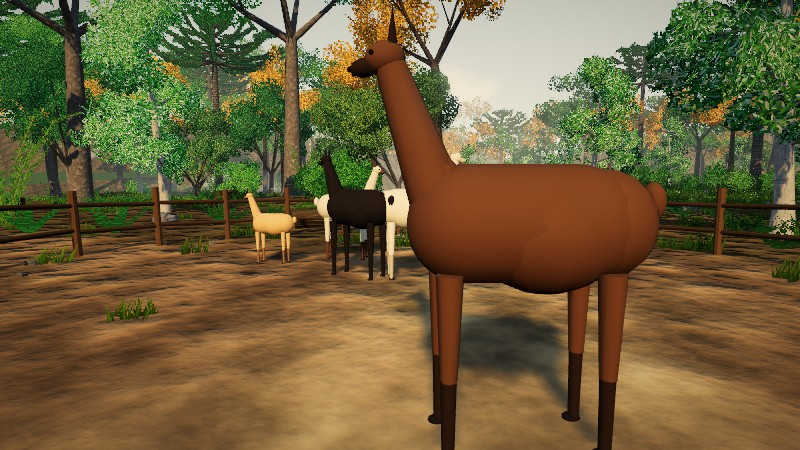
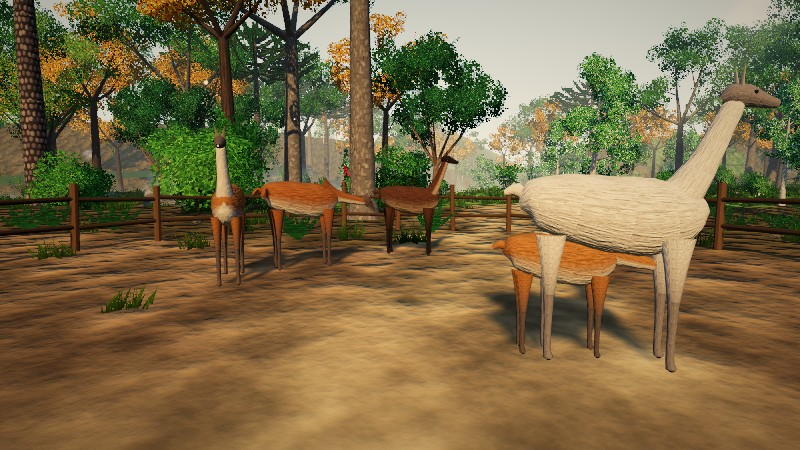
Rehacer el weke como guanaco doméstico y dar pelaje a los animales
El weke deja de parecer una llama: porte y colores de guanaco, que es lo que apunta
el estudio genético de los restos de isla Mocha. Weke y pudú tienen ahora un cuerpo
continuo (tronco, cuello, cabeza y patas modelados por su contorno) con textura de pelo.
La ficha del cuaderno explica la duda sobre qué animal era.

Claude-Session: https://claude.ai/code/session_014kb8iuWt13Nr2guzxgq7A9

diff --git a/src/life.js b/src/life.js
@@ -78,46 +78,70 @@ export function animatePerson(p, phase, amp, air = false) {
   p.body.rotation.x = amp * 0.09; p.body.rotation.y = s * amp * 0.07; p.body.position.y = Math.abs(c) * amp * 0.012;
 }
 
-// Weke: pariente de la llama. Medidas reales: 1,1 m a la cruz, cuello largo y erguido, cabeza chica
-// de orejas largas, cuerpo lanudo sobre patas delgadas.
-// Pudú: ciervo enano de 40 cm a la cruz, cuerpo redondo con la grupa más alta que los hombros,
-// patas cortas, cabeza pequeña y, el macho, dos cuernos como espinas.
-function buildQuad({ s = 1, kind = 'weke', body = 0xd9d0b6, legs = 0x8a7a66 }) {
-  const g = new THREE.Group(), weke = kind === 'weke', dark = 0x1a1512, hoof = 0x2a2420;
-  const H = weke ? 1.02 : 0.34, L = weke ? 1.05 : 0.5, legLen = weke ? 0.72 : 0.22;
-  const cap = (r, len, c, x, y, z, rx = Math.PI / 2) => { const m = mesh(new THREE.CapsuleGeometry(r, len, 5, 12), c, g, x, y, z); m.rotation.x = rx; return m; };
-  if (weke) {
-    cap(0.27, 0.5, body, 0, H, 0); ball(0.29, body, g, 0, H - 0.04, -0.1, 1.02, 0.95, 1.2);      // tronco lanudo
-    ball(0.22, body, g, 0, H + 0.02, 0.32, 0.95, 1.05, 0.9); ball(0.25, body, g, 0, H, -0.36, 1, 1, 0.9); // pecho y grupa
-    ball(0.06, body, g, 0, H + 0.1, -0.6, 1, 1.5, 0.9);                                           // cola corta
-  } else {
-    const b = cap(0.125, 0.22, body, 0, H, 0); b.rotation.x = Math.PI / 2 + 0.12;                 // lomo que sube hacia la grupa
-    ball(0.135, body, g, 0, H + 0.025, -0.13, 1, 1.05, 1); ball(0.105, body, g, 0, H - 0.015, 0.15, 1, 1, 1);
-    ball(0.028, legs, g, 0, H + 0.07, -0.27);
+// ---------- animales con piel continua ----------
+// Cada parte (tronco, cuello, cabeza, patas) es un tubo de sección ovalada que sigue una línea
+// de puntos [alto, largo, radio horizontal, radio vertical], como el contorno real del animal.
+const furTex = TEX.fur.clone(); furTex.repeat.set(3, 3); furTex.needsUpdate = true;
+const furMat = new THREE.MeshStandardMaterial({ vertexColors: true, map: furTex, bumpMap: furTex, bumpScale: 1.6, roughness: 1 });
+function skin(spine, colorAt, { rings = 18, radial = 14, rough = 0 } = {}) {
+  const curve = new THREE.CatmullRomCurve3(spine.map(([y, z]) => new THREE.Vector3(0, y, z))), pos = [], col = [], uv = [], idx = [], c = new THREE.Color(), n = spine.length - 1;
+  for (let i = 0; i <= rings; i++) {
+    const t = i / rings, p = curve.getPoint(t), T = curve.getTangent(t), f = t * n, k = Math.min(n - 1, Math.floor(f)), u = f - k;
+    const rx = spine[k][2] + (spine[k + 1][2] - spine[k][2]) * u, ry = spine[k][3] + (spine[k + 1][3] - spine[k][3]) * u, ny = T.z, nz = -T.y; // la normal del anillo, perpendicular a la línea
+    for (let j = 0; j <= radial; j++) {
+      const a = (j / radial) * Math.PI * 2, ca = Math.cos(a), sa = Math.sin(a), w = 1 + rough * Math.sin(a * 5 + t * 23) * Math.sin(t * 31 + a * 3); // mechones
+      pos.push(ca * rx * w, p.y + ny * sa * ry * w, p.z + nz * sa * ry * w); uv.push(j / radial, t * 2);
+      c.set(colorAt(t, sa, ca)); col.push(c.r, c.g, c.b);
+    }
   }
-  const neck = new THREE.Group(); neck.position.set(0, H + (weke ? 0.1 : 0.03), L * (weke ? 0.36 : 0.36)); g.add(neck);
-  const nl = weke ? 0.62 : 0.12; mesh(new THREE.CylinderGeometry(weke ? 0.07 : 0.045, weke ? 0.13 : 0.07, nl, 10), body, neck, 0, nl / 2, 0);
-  if (weke) ball(0.11, body, neck, 0, 0.08, -0.02, 1, 1.4, 1.05);                                  // lana en la base del cuello
-  const hd = new THREE.Group(); hd.position.y = nl; neck.add(hd);
-  if (weke) {
-    ball(0.078, body, hd, 0, 0.04, 0.02, 0.9, 0.95, 1.15); ball(0.05, legs, hd, 0, 0.012, 0.115, 0.85, 0.8, 1.25); // cráneo y hocico largo
-    ball(0.016, dark, hd, 0, 0.012, 0.178, 1.3, 0.7, 0.6); mesh(new THREE.BoxGeometry(0.035, 0.004, 0.02), dark, hd, 0, -0.012, 0.16); // nariz y boca partida
-    for (const sx of [-1, 1]) { const e = mesh(new THREE.ConeGeometry(0.022, 0.15, 6), legs, hd, sx * 0.045, 0.16, -0.03); e.rotation.z = -sx * 0.18; e.rotation.x = -0.15; ball(0.011, dark, hd, sx * 0.058, 0.055, 0.075); }
-  } else {
-    ball(0.055, body, hd, 0, 0.03, 0.03, 0.95, 0.95, 1.15); ball(0.03, legs, hd, 0, 0.012, 0.085, 0.9, 0.85, 1.2); ball(0.01, dark, hd, 0, 0.012, 0.118);
-    for (const sx of [-1, 1]) { ball(0.022, legs, hd, sx * 0.045, 0.08, -0.005, 0.5, 1.1, 0.9); ball(0.007, dark, hd, sx * 0.04, 0.045, 0.055); if (legs !== body) { const a = mesh(new THREE.ConeGeometry(0.007, 0.05, 4), 0x4a3c30, hd, sx * 0.02, 0.1, 0.0); a.rotation.z = -sx * 0.15; } }
+  for (let i = 0; i < rings; i++) for (let j = 0; j < radial; j++) { const a = i * (radial + 1) + j, b = a + radial + 1; idx.push(a, a + 1, b, a + 1, b + 1, b); }
+  const g = new THREE.BufferGeometry(); g.setAttribute('position', new THREE.Float32BufferAttribute(pos, 3)); g.setAttribute('color', new THREE.Float32BufferAttribute(col, 3)); g.setAttribute('uv', new THREE.Float32BufferAttribute(uv, 2)); g.setIndex(idx); g.computeVertexNormals();
+  return new THREE.Mesh(g, furMat);
+}
+const mixHex = (a, b, t) => new THREE.Color(a).lerp(new THREE.Color(b), Math.min(1, Math.max(0, t))).getHex();
+
+// Weke (chilihueque): por los restos estudiados, lo más probable es que fuera un guanaco domesticado.
+// Porte de guanaco: 1,1 m a la cruz, esbelto, cuello largo, lomo canela y vientre blanco, cara gris.
+// Pudú: ciervo enano de 40 cm, cuerpo redondo con la grupa más alta que los hombros, patas cortas.
+const ANIMAL = {
+  weke: {
+    torso: [[1.04, -0.6, 0.02, 0.02], [1.07, -0.52, 0.14, 0.16], [1.05, -0.32, 0.19, 0.22], [1.0, -0.05, 0.2, 0.25], [0.98, 0.2, 0.19, 0.26], [1.0, 0.38, 0.15, 0.21], [1.02, 0.5, 0.08, 0.1], [1.02, 0.54, 0.02, 0.02]],
+    neckAt: [1.12, 0.36], neck: [[-0.14, -0.06, 0.13, 0.17], [0.02, 0.02, 0.1, 0.12], [0.25, 0.07, 0.07, 0.08], [0.48, 0.09, 0.058, 0.065], [0.6, 0.1, 0.055, 0.06], [0.66, 0.1, 0.03, 0.03]],
+    headAt: [0.63, 0.1], head: [[0, -0.08, 0.02, 0.02], [0.03, -0.03, 0.062, 0.07], [0.035, 0.04, 0.066, 0.072], [0.02, 0.11, 0.05, 0.05], [0.005, 0.18, 0.036, 0.034], [0, 0.215, 0.03, 0.026], [0, 0.232, 0.012, 0.012]],
+    hipY: 0.86, hipX: 0.11, hipZ: [0.34, -0.4], thigh: [[0, 0, 0.07, 0.1], [-0.18, 0, 0.05, 0.065], [-0.4, 0, 0.032, 0.036]], shin: [[0, 0, 0.032, 0.036], [-0.2, 0, 0.024, 0.026], [-0.4, 0, 0.022, 0.024], [-0.44, 0.01, 0.03, 0.034], [-0.46, 0.01, 0.01, 0.01]],
+    tailAt: [1.1, -0.56], tail: [[0, 0, 0.03, 0.03], [0.04, -0.07, 0.045, 0.05], [0.0, -0.15, 0.02, 0.02]], ear: 0.14, earAt: [0.04, 0.1, -0.005], eyeAt: [0.058, 0.05, 0.07, 0.011], rough: 0.035,
+  },
+  pudu: {
+    torso: [[0.4, -0.3, 0.01, 0.01], [0.42, -0.24, 0.09, 0.1], [0.41, -0.1, 0.115, 0.125], [0.38, 0.05, 0.11, 0.125], [0.36, 0.16, 0.085, 0.105], [0.36, 0.23, 0.04, 0.05], [0.36, 0.25, 0.01, 0.01]],
+    neckAt: [0.4, 0.17], neck: [[-0.06, -0.04, 0.07, 0.085], [0.02, 0.02, 0.05, 0.055], [0.09, 0.05, 0.042, 0.046], [0.12, 0.06, 0.02, 0.02]],
+    headAt: [0.1, 0.055], head: [[0, -0.045, 0.012, 0.012], [0.012, -0.015, 0.042, 0.046], [0.014, 0.03, 0.042, 0.044], [0.006, 0.075, 0.028, 0.027], [0, 0.1, 0.02, 0.018], [0, 0.11, 0.006, 0.006]],
+    hipY: 0.265, hipX: 0.055, hipZ: [0.15, -0.2], thigh: [[0, 0, 0.035, 0.05], [-0.07, 0, 0.024, 0.03], [-0.13, 0, 0.014, 0.016]], shin: [[0, 0, 0.014, 0.016], [-0.07, 0, 0.011, 0.012], [-0.12, 0, 0.01, 0.011], [-0.13, 0.004, 0.014, 0.016], [-0.135, 0.004, 0.004, 0.004]],
+    tailAt: [0.42, -0.28], tail: [[0, 0, 0.012, 0.012], [0.005, -0.03, 0.018, 0.018], [0, -0.05, 0.006, 0.006]], ear: 0.05, earAt: [0.03, 0.055, -0.005], eyeAt: [0.036, 0.03, 0.04, 0.007], rough: 0.02,
+  },
+};
+function buildQuad({ s = 1, kind = 'weke', body = 0xb07a4a, belly = 0xf0e8d8, legs = 0x7a6a5e, horns = false }) {
+  const A = ANIMAL[kind], g = new THREE.Group(), dark = 0x18130f, weke = kind === 'weke';
+  const coat = (t, sa) => mixHex(body, belly, (-sa - 0.25) * 2.2);                          // lomo de un color, vientre más claro
+  g.add(skin(A.torso, coat, { rings: 22, rough: A.rough }));
+  const tail = new THREE.Group(); tail.position.set(0, A.tailAt[0], A.tailAt[1]); tail.add(skin(A.tail, () => body, { rings: 6, radial: 8 })); g.add(tail);
+  const neck = new THREE.Group(); neck.position.set(0, A.neckAt[0], A.neckAt[1]); g.add(neck);
+  neck.add(skin(A.neck, (t, sa) => mixHex(body, belly, (-sa - 0.1) * 2.5 * (weke ? 1 : 0.5)), { rings: 12, rough: A.rough * 0.6 })); // garganta clara
+  const hd = new THREE.Group(); hd.position.set(0, A.headAt[0], A.headAt[1]); neck.add(hd);
+  hd.add(skin(A.head, (t, sa) => (t > 0.86 ? dark : mixHex(weke ? legs : body, belly, (t - 0.55) * (weke ? 0.6 : 0.3) + (-sa - 0.5))), { rings: 12, radial: 12 })); // cara y hocico oscuro
+  for (const sx of [-1, 1]) {
+    const e = mesh(new THREE.ConeGeometry(A.ear * 0.2, A.ear, 6), weke ? legs : body, hd, sx * A.earAt[0], A.earAt[1] + A.ear * 0.4, A.earAt[2]); e.scale.z = 0.45; e.rotation.z = -sx * 0.22; e.rotation.x = -0.12;
+    ball(A.eyeAt[3], dark, hd, sx * A.eyeAt[0], A.eyeAt[1], A.eyeAt[2]);
+    if (horns) { const a = mesh(new THREE.ConeGeometry(0.006, 0.05, 4), 0x4a3c30, hd, sx * 0.018, 0.075, -0.005); a.rotation.z = -sx * 0.18; }
   }
-  hd.rotation.x = -0.35; neck.rotation.x = 0.35;
   const Ls = [], Ks = [];
-  for (const [x, z] of [[1, 1], [-1, 1], [1, -1], [-1, -1]]) {
-    const hip = new THREE.Group(); hip.position.set(x * (weke ? 0.15 : 0.07), legLen + (weke ? 0.1 : 0.03), z * L * (weke ? 0.33 : 0.3)); g.add(hip);
-    seg(legLen * 0.5 + (weke ? 0.1 : 0.03), weke ? 0.06 : 0.03, weke ? 0.038 : 0.019, body, hip);                      // muslo, más grueso arriba
-    const knee = new THREE.Group(); knee.position.y = -legLen * 0.5 - (weke ? 0.1 : 0.03); hip.add(knee); seg(legLen * 0.5, weke ? 0.035 : 0.018, weke ? 0.028 : 0.013, legs, knee);
-    ball(weke ? 0.036 : 0.016, hoof, knee, 0, -legLen * 0.5 + 0.01, weke ? 0.012 : 0.005, 1, 0.6, 1.3); // pezuña
+  for (const z of A.hipZ) for (const x of [1, -1]) {
+    const hip = new THREE.Group(); hip.position.set(x * A.hipX, A.hipY, z); g.add(hip); hip.add(skin(A.thigh, (t) => mixHex(body, legs, t * 1.1 - 0.3), { rings: 8, radial: 10 }));
+    const knee = new THREE.Group(); knee.position.y = A.thigh[A.thigh.length - 1][0]; hip.add(knee); knee.add(skin(A.shin, (t) => (t > 0.86 ? dark : legs), { rings: 9, radial: 8 })); // la pezuña es oscura
     Ls.push(hip); Ks.push(knee);
   }
+  hd.rotation.x = -0.3; neck.rotation.x = 0.3;
   g.scale.setScalar(s); shadows(g);
-  return { g, legs: Ls, knees: Ks, neck, headPivot: hd };
+  return { g, legs: [Ls[0], Ls[1], Ls[2], Ls[3]], knees: Ks, neck, headPivot: hd, tail };
 }
 
 // Aves con sus colores reales:
@@ -166,10 +190,11 @@ export function buildLife({ scene, rng, emit, trees }) {
 
   // ---------- animales ----------
   const quad = (opts, x, z, beh) => { const q = buildQuad(opts); q.x = x; q.z = z; q.face = R(0, 6); q.phase = R(0, 6); q.wait = R(0, 4); q.tx = x; q.tz = z; q.speed = 0; Object.assign(q, beh); q.kind = opts.kind || 'weke'; scene.add(q.g); quads.push(q); };
-  for (const [body, legs, s] of [[0xe4dcc4, 0xb9ad94, 1], [0x6a4a34, 0x3a2a20, 1.05], [0xd9d0b6, 0x6a4a34, 0.95], [0x2e2622, 0x2e2622, 1], [0xcfa878, 0x8a6a4a, 0.68]])
-    quad({ body, legs, s }, CORRAL.x + R(-3, 3), CORRAL.z + R(-3, 3), { hx: CORRAL.x, hz: CORRAL.z, hr: CORRAL.r - 1.8, pace: 0.8 });
+  // weke: la mayoría con el pelaje del guanaco; el blanco era el más apreciado
+  for (const [body, belly, legs, s] of [[0xb07a4a, 0xf0e8d8, 0x7a6a5e, 1], [0xa87044, 0xece2d0, 0x74645a, 1.04], [0xeee6d8, 0xf8f2e6, 0x9a9088, 0.98], [0x6e4c36, 0xbfa88c, 0x3e322c, 1], [0xb8824e, 0xf0e8d8, 0x7a6a5e, 0.66]])
+    quad({ body, belly, legs, s }, CORRAL.x + R(-3, 3), CORRAL.z + R(-3, 3), { hx: CORRAL.x, hz: CORRAL.z, hr: CORRAL.r - 1.9, pace: 0.8 });
   for (const [x, z] of [[POI.viejo.x + 16, POI.viejo.z + 12], [-70, -70], [40, -52], [-60, 66], [70, 40], [-140, 20]])
-    quad({ kind: 'pudu', body: 0x8a5230, legs: 0x5a3420 }, x, z, { hx: x, hz: z, hr: 16, pace: 0.6, shy: true });
+    quad({ kind: 'pudu', body: 0x8a5230, belly: 0xa9764c, legs: 0x5a3420, horns: rng() < 0.5 }, x, z, { hx: x, hz: z, hr: 16, pace: 0.6, shy: true });
 
   // ---------- aves ----------
   const bird = (color, span, f, type) => { const b = buildBird(type); b.f = f; b.type = type; b.o = R(0, 6.28); scene.add(b.g); birds.push(b); };
@@ -209,13 +234,13 @@ export function buildLife({ scene, rng, emit, trees }) {
       const dp = Math.hypot(pp.x - q.x, pp.z - q.z), flee = q.shy && dp < api.shyR;
       if (flee) { q.tx = q.x + ((q.x - pp.x) / dp) * 14; q.tz = q.z + ((q.z - pp.z) / dp) * 14; q.wait = 0; }
       const d = Math.hypot(q.tx - q.x, q.tz - q.z), want = flee ? 5.2 : q.pace;
-      if (q.wait > 0) { q.wait -= dt; q.speed += (0 - q.speed) * Math.min(1, dt * 6); q.neck.rotation.x += ((q.graze ? 1.75 : 0.35) - q.neck.rotation.x) * Math.min(1, dt * 3); q.headPivot.rotation.x = -q.neck.rotation.x * 0.6; }
+      if (q.wait > 0) { q.wait -= dt; q.speed += (0 - q.speed) * Math.min(1, dt * 6); q.neck.rotation.x += ((q.graze ? 1.7 : 0.3) - q.neck.rotation.x) * Math.min(1, dt * 3); q.headPivot.rotation.x = -q.neck.rotation.x * 0.6; q.tail.rotation.x = Math.sin(q.phase * 3 + q.x) * 0.25; }
       else if (d < 0.4) { q.wait = R(2, 8); q.graze = rng() < 0.6; const a = R(0, 6.28), r = Math.sqrt(rng()) * q.hr; q.tx = q.hx + Math.cos(a) * r; q.tz = q.hz + Math.sin(a) * r; }
-      else { turn(q, q.tx, q.tz, dt, flee ? 9 : 3); q.speed += (want - q.speed) * Math.min(1, dt * 5); q.x += Math.sin(q.face) * q.speed * dt; q.z += Math.cos(q.face) * q.speed * dt; q.neck.rotation.x += (0.35 - q.neck.rotation.x) * Math.min(1, dt * 5); q.headPivot.rotation.x = -0.35; }
+      else { turn(q, q.tx, q.tz, dt, flee ? 9 : 3); q.speed += (want - q.speed) * Math.min(1, dt * 5); q.x += Math.sin(q.face) * q.speed * dt; q.z += Math.cos(q.face) * q.speed * dt; q.neck.rotation.x += (0.3 + Math.sin(q.phase) * 0.05 - q.neck.rotation.x) * Math.min(1, dt * 5); q.headPivot.rotation.x = -0.3; }
       q.phase += dt * (1 + q.speed * 5); const sw = Math.sin(q.phase) * Math.min(0.7, q.speed * 0.6);
       q.legs[0].rotation.x = sw; q.legs[3].rotation.x = sw; q.legs[1].rotation.x = -sw; q.legs[2].rotation.x = -sw;
       const kb = Math.max(0, Math.cos(q.phase)) * Math.min(0.9, q.speed * 0.7), kb2 = Math.max(0, -Math.cos(q.phase)) * Math.min(0.9, q.speed * 0.7); q.knees[0].rotation.x = q.knees[3].rotation.x = kb; q.knees[1].rotation.x = q.knees[2].rotation.x = kb2;
-      q.g.position.set(q.x, height(q.x, q.z), q.z); q.g.rotation.y = q.face;
+      q.g.position.set(q.x, height(q.x, q.z) + Math.abs(Math.sin(q.phase)) * Math.min(0.02, q.speed * 0.01), q.z); q.g.rotation.y = q.face;
     }
     for (const b of birds) {
       const [x, y, z, amp, fq] = b.f(t, b), [x2, y2, z2] = b.f(t + 0.05, b);

diff --git a/src/notes.js b/src/notes.js
@@ -44,7 +44,7 @@ export const NOTES = [
   { id: 'copihue', cat: 'naturaleza', title: 'Copihue', sub: 'Kopiwe · Lapageria rosea', hint: 'Trepa por algunos troncos del bosque. Busca sus flores rojas.',
     text: 'Enredadera del bosque húmedo que trepa por los troncos buscando la luz. Sus flores rojas con forma de campana cuelgan desde el final del verano hasta el invierno, cuando casi nada más florece. Su fruto es dulce y se come.' },
   { id: 'weke', cat: 'naturaleza', title: 'Weke', sub: 'Chilihueque', hint: 'En el corral de la aldea.',
-    text: 'El animal doméstico del pueblo mapuche antes de la llegada de los caballos y las ovejas. Pariente de la llama y del guanaco, da lana para tejer y es señal de riqueza: se entrega en acuerdos y celebraciones. Es manso con quien lo cuida y arisco con los extraños.' },
+    text: 'El animal doméstico del pueblo mapuche antes de la llegada de los caballos y las ovejas. No se sabe con certeza qué animal era: pudo ser una llama traída del norte, pero el estudio de huesos antiguos hallados en la isla Mocha apunta a un guanaco domesticado. Da lana para tejer y es señal de riqueza: se entrega en acuerdos y matrimonios, y se sacrifica en ceremonias importantes. Los blancos son los más apreciados. Una familia tiene pocos, y su carne solo se come en ocasiones especiales.' },
   { id: 'pudu', cat: 'naturaleza', title: 'Pudú', sub: 'Püdu · Pudu puda', hint: 'Entre los árboles, lejos de la aldea. Huye si te acercas rápido.',
     text: 'Uno de los ciervos más pequeños del mundo: apenas llega a la rodilla de un adulto. Vive escondido en el bosque espeso, come hojas y brotes, y al menor ruido escapa corriendo en zigzag. Para verlo de cerca hay que moverse despacio.' },
   { id: 'traro', cat: 'naturaleza', title: 'Traro', sub: 'Traru · Caracara plancus', hint: 'Planea sobre el cerro Treng Treng.',

diff --git a/src/gfx.js b/src/gfx.js
@@ -167,6 +167,7 @@ export const TEX = {
   thatch: tex(streakCanvas(512, 512, [[176, 150, 92], [208, 184, 118], [140, 116, 66], [108, 88, 50]], 2600, { bands: 5, lw: [1, 2.4] })),
   wood: tex(streakCanvas(128, 256, [[140, 110, 78], [110, 84, 58], [166, 134, 96]], 300)),
   textile: tex(textileCanvas()), soft: tex(softCanvas(), { wrap: false }),
+  fur: tex(streakCanvas(256, 256, [[236, 236, 236], [205, 205, 205], [255, 255, 255], [176, 176, 176]], 2200, { lw: [0.6, 1.6] })), // pelaje: pelos cortos en la dirección del cuerpo
 };
 
 // ---------- materiales ----------
